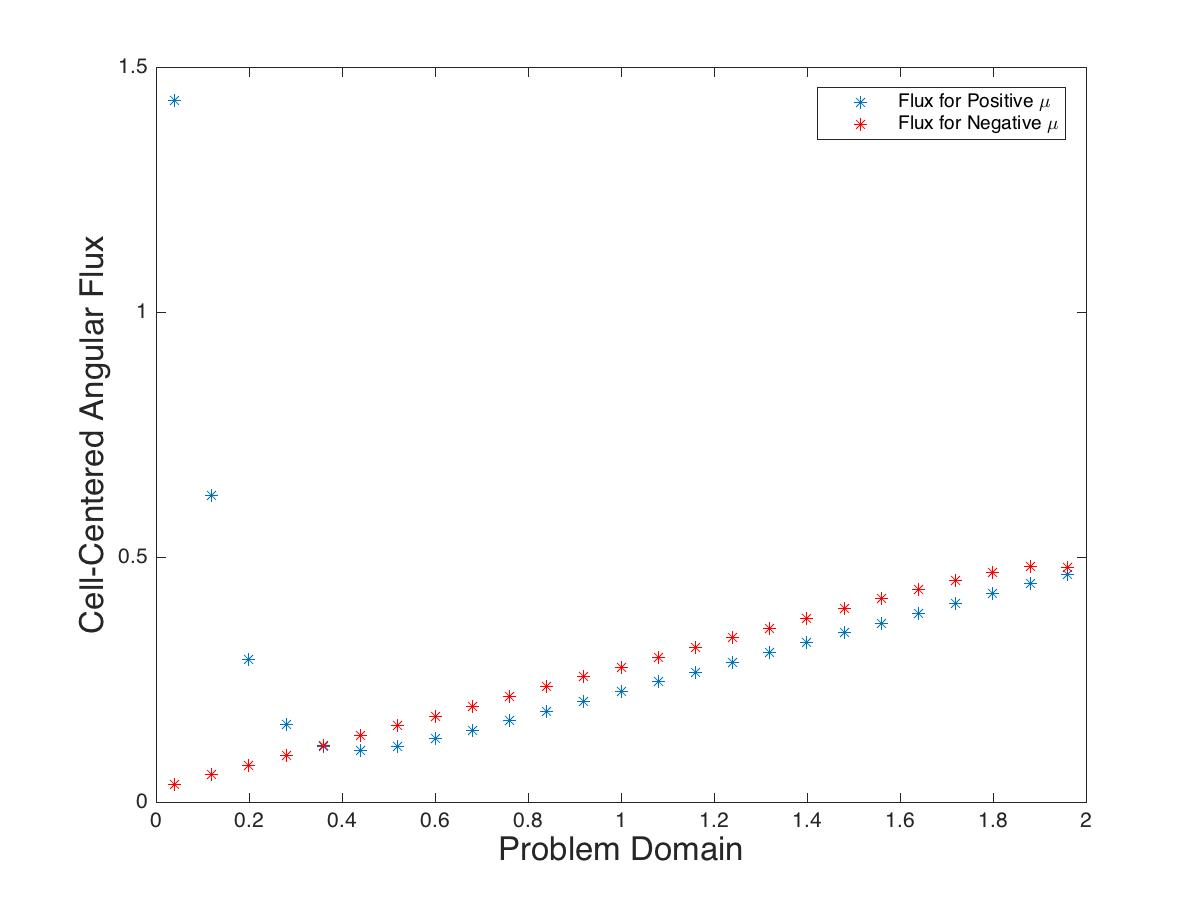
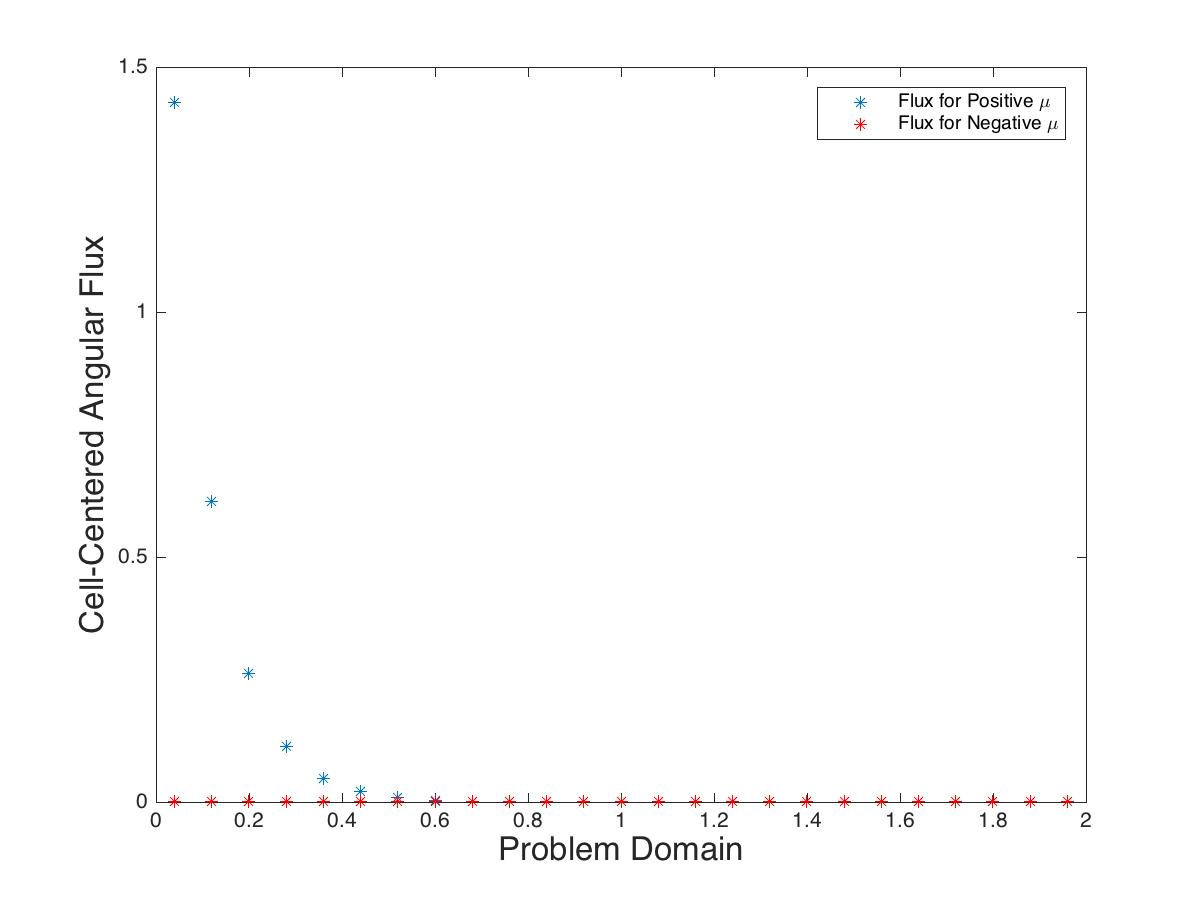
Realized i had the incorrect source.

diff --git a/HW4/Q3.m b/HW4/Q3.m
@@ -7,13 +7,15 @@ alpha = 0;
 mu = 0.1;
 Et = 1.0;
 Es = 0.0;
+
+
 h = 0.08;
 
 mesh = 0:h:2;
 elem_length = mesh(2);
 coordinates = 0:(elem_length / 2):2;
 
-q = 0.25 .* coordinates;
+q = 0.0 .* coordinates;
 
 if (elem_length > 2 * mu / Et)
     disp('Warning: Negative flux!')
@@ -57,12 +59,12 @@ end
 
 
 % plot the cell-centered values of angular flux
-% plot(coordinates(2:2:end), psi(2:2:end), '*', coordinates(2:2:end), psi_n(2:2:end), 'r*')
-% legend('Flux for Positive \mu', 'Flux for Negative \mu')
-% xlabel('Problem Domain', 'FontSize', fontsize)
-% ylabel('Cell-Centered Angular Flux', 'FontSize', fontsize)
-% saveas(gcf, 'AngularFluxh08', 'jpeg')
-% close all
+plot(coordinates(2:2:end), psi(2:2:end), '*', coordinates(2:2:end), psi_n(2:2:end), 'r*')
+legend('Flux for Positive \mu', 'Flux for Negative \mu')
+xlabel('Problem Domain', 'FontSize', fontsize)
+ylabel('Cell-Centered Angular Flux', 'FontSize', fontsize)
+saveas(gcf, 'AngularFluxh08', 'jpeg')
+close all
 
 
 % apply "quadrature rule" to get scalar flux
